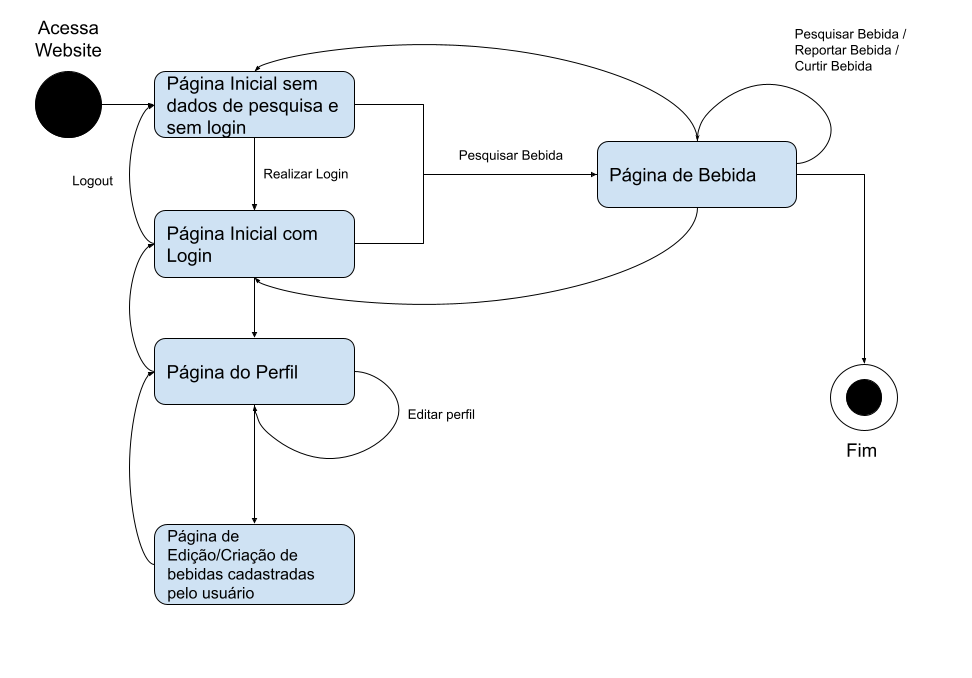
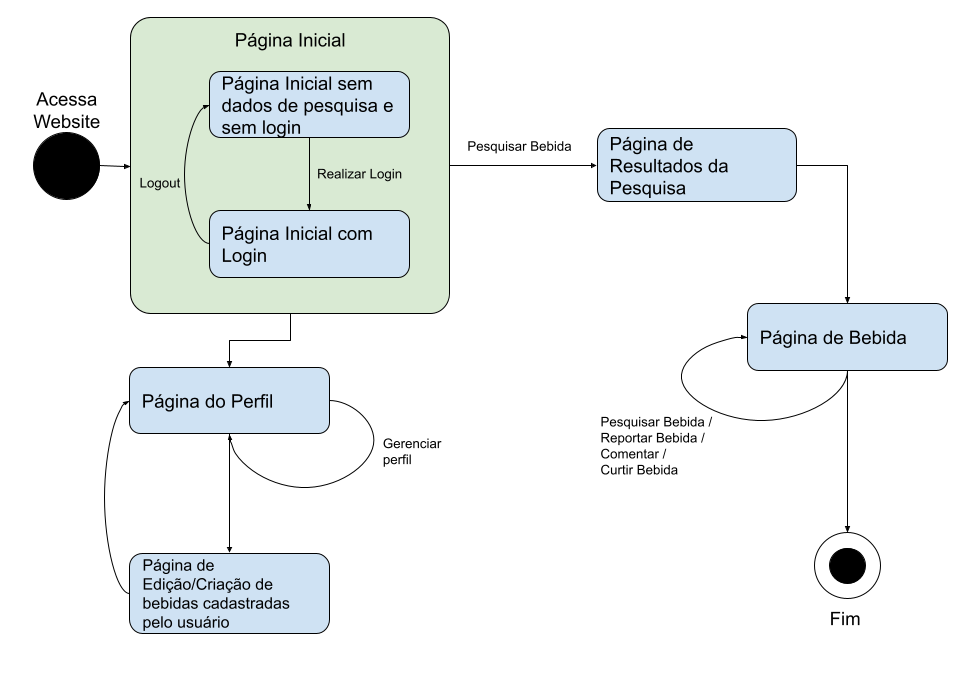
docs: update state diagram

diff --git a/docs/Modelagem/2.1.2.1.DiagramaDeEstados.md b/docs/Modelagem/2.1.2.1.DiagramaDeEstados.md
@@ -4,7 +4,8 @@ Versionamento
 
 versão | data | Modificação | Autor
 -------|------|-------------|------
-0.1.0 | 25/11/2022 | Criação do documento | Filipe Machado
+0.1.0 | 04/12/2022 | Criação do documento | Filipe Machado
+0.1.1 | 05/12/2022 | Atualização da página inicial | Filipe Machado
 
 *Tabela 1: Versionamento*
 
